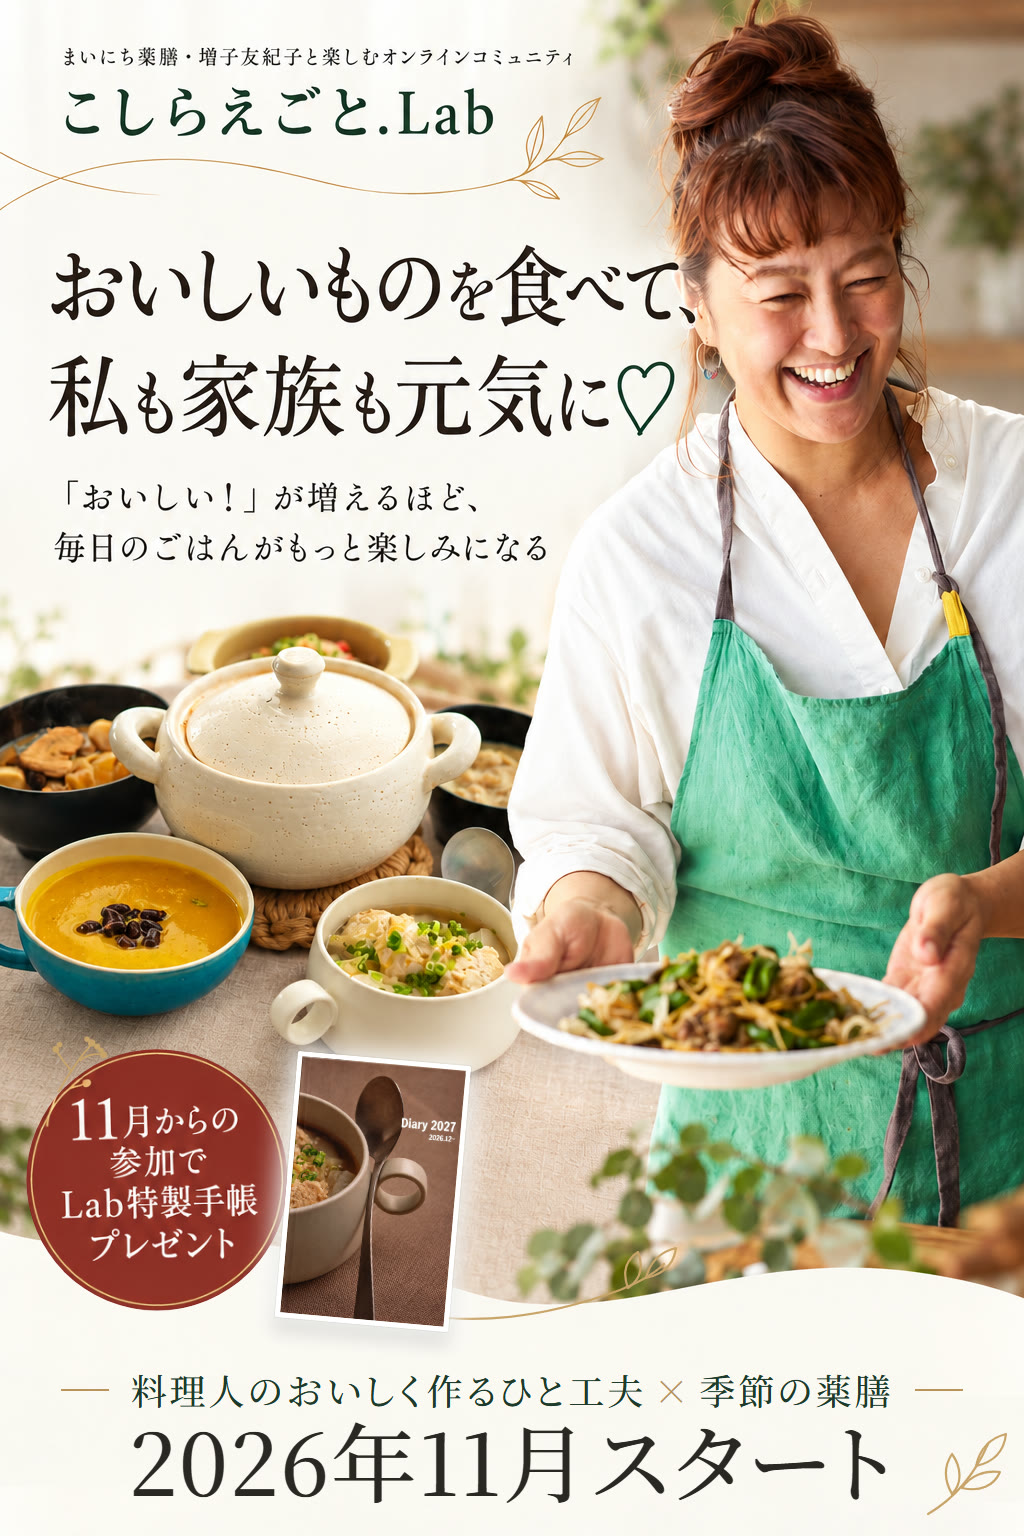
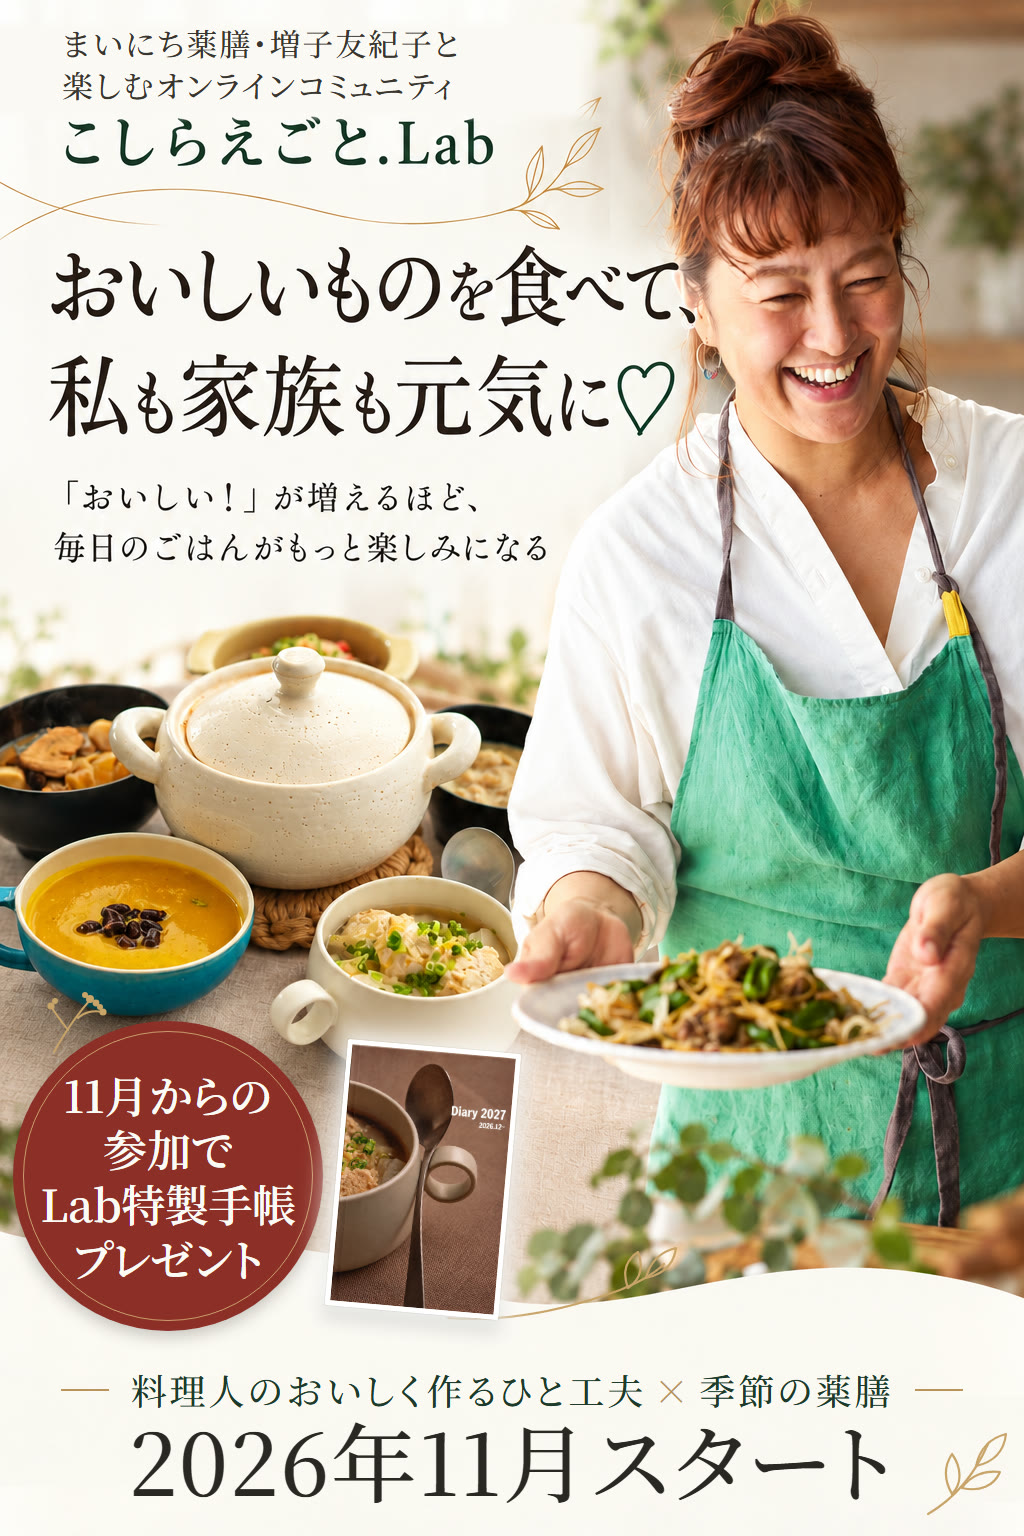
ゆきこさんFB反映：説明文と手帳バッジを大きく、ラボ名を分断しない、写真はイメージです
- FV上部の説明文を2行にして約1.9倍に
- 手帳プレゼントの〇を文字ごと大きく作り直し
- 「こしらえごと.Lab」が改行で分かれないようにした
- 1〜4月の料理写真に「※写真はイメージです」

Changed region(s): [[0.0, 0.6562, 0.5312, 0.875], [0.0625, 0.0, 0.5938, 0.1562], [0.0, 0.125, 0.0312, 0.1562]]

diff --git a/index.html b/index.html
@@ -80,6 +80,7 @@ p{margin:0 0 1.2em}
 /* レッスン */
 .month{background:#fff;border-radius:16px;overflow:hidden;margin:0 0 30px;box-shadow:0 2px 0 var(--line)}
 .month img{width:100%;aspect-ratio:3/2;object-fit:cover}
+.img-note{margin:6px 14px 0;text-align:right;font-size:13.5px;line-height:1.5;color:#6b665e}
 .month .body{padding:22px 20px 24px}
 .month .m{display:inline-flex;align-items:baseline;gap:6px;color:var(--green);font-weight:600;letter-spacing:.06em;margin-bottom:4px}
 .month .m b{font-size:34px;line-height:1;font-weight:600}
@@ -187,7 +188,7 @@ footer{padding:28px 24px 36px;text-align:center;font-size:13px;color:#7b766d;bac
 <!-- ===== FV ===== -->
 <header class="fv">
   <img src="assets/fv.jpg" width="1024" height="1536" alt="">
-  <h1 class="sr-only">おいしい<wbr>ものを<wbr>食べて、<wbr>私も<wbr>家族も<wbr>元気に♡ <wbr>「おいしい！」が<wbr>増える<wbr>ほど、<wbr>毎日の<wbr>ごはんが<wbr>もっと<wbr>楽しみに<wbr>なる！<wbr> 料理人の<wbr>おいしく<wbr>作る<wbr>ひと<wbr>工夫 × 季節の<wbr>薬膳 まいに<wbr>ち薬膳・増子友紀子と<wbr>楽しむオンラインコミュニティ こしらえごと<wbr>.Lab 11月からの<wbr>参加で<wbr>特別プレゼント！<wbr> Lab特製手帳プレゼント♡ 2026年11月スタート！</h1>
+  <h1 class="sr-only">おいしい<wbr>ものを<wbr>食べて、<wbr>私も<wbr>家族も<wbr>元気に♡ <wbr>「おいしい！」が<wbr>増える<wbr>ほど、<wbr>毎日の<wbr>ごはんが<wbr>もっと<wbr>楽しみに<wbr>なる！<wbr> 料理人の<wbr>おいしく<wbr>作る<wbr>ひと<wbr>工夫 × 季節の<wbr>薬膳 まいに<wbr>ち薬膳・増子友紀子と<wbr>楽しむオンラインコミュニティ <span class="nw">こしらえごと.Lab</span> 11月からの<wbr>参加で<wbr>特別プレゼント！<wbr> Lab特製手帳プレゼント♡ 2026年11月スタート！</h1>
 </header>
 <div class="fv-lead">
   <p>体の<wbr>ために、<wbr>我慢したり、<wbr>難しい<wbr>ことを<wbr>頑張ったりしなくても<wbr>大丈夫。<br>
@@ -208,7 +209,7 @@ footer{padding:28px 24px 36px;text-align:center;font-size:13px;color:#7b766d;bac
   <p>スーパーで<wbr>買える<wbr>身近な<wbr>食材でも、<wbr>季節や<wbr>自分の<wbr>体に<wbr>合わせた<wbr>食べ方を<wbr>楽しむことができます。</p>
   <p>さらに、<wbr>料理人の<wbr>おいしく<wbr>仕上げる<wbr>コツを<wbr>知れば、<wbr>いつもの<wbr>食材が<wbr>もっとおいしい<wbr>一皿に。</p>
   <p><span class="strong">おいしい<wbr>ものを<wbr>楽しむことも、<wbr>自分と<wbr>家族を<wbr>大切に<wbr>する<wbr>ことも、<wbr>どちらも<wbr>叶えたい。</span></p>
-  <p class="center">そんな<wbr>方に<wbr>おすすめなのが、<wbr>こしらえごと<wbr>.Labです。</p>
+  <p class="center">そんな<wbr>方に<wbr>おすすめなのが、<wbr><span class="nw">こしらえごと.Lab</span>です。</p>
 </section>
 
 <!-- ===== ラボとは ===== -->
@@ -218,9 +219,9 @@ footer{padding:28px 24px 36px;text-align:center;font-size:13px;color:#7b766d;bac
     <svg viewBox="0 0 40 40" fill="none" stroke="currentColor" stroke-width="1.4" stroke-linecap="round"><path d="M8 26c2-6 8-7 12-6 3-5 9-6 12-3-1 4-5 6-8 6 1 4-1 8-5 9-3-2-3-5-2-8-4 2-8 3-9 2z"/><path d="M20 20c-1 3-1 6 0 9"/></svg>
     <svg viewBox="0 0 40 40" fill="none" stroke="currentColor" stroke-width="1.4" stroke-linecap="round"><ellipse cx="20" cy="22" rx="10" ry="12"/><path d="M20 10c0-3 2-5 5-6"/><path d="M15 16c1 4 1 8 0 12M25 16c-1 4-1 8 0 12"/></svg>
   </div>
-  <span class="eyebrow">こしらえごと<wbr>.Labって、<wbr>どんな<wbr>場所？</span>
+  <span class="eyebrow"><span class="nw">こしらえごと.Lab</span>って、<wbr>どんな<wbr>場所？</span>
   <h2 class="h2">おいしいから、<wbr>作りたくなる。<br>楽しいから、<wbr>続けたくなる♡</h2>
-  <p>こしらえごと<wbr>.Labは、<wbr>まいに<wbr>ち薬膳の<wbr>増子友紀子と<wbr>一緒に、<wbr>おいしい<wbr>料理と<wbr>季節の<wbr>薬膳を<wbr>楽しむオンラインコミュニティです。</p>
+  <p><span class="nw">こしらえごと.Lab</span>は、<wbr>まいに<wbr>ち薬膳の<wbr>増子友紀子と<wbr>一緒に、<wbr>おいしい<wbr>料理と<wbr>季節の<wbr>薬膳を<wbr>楽しむオンラインコミュニティです。</p>
   <p>例えば、</p>
   <span class="voice">「これ、<wbr>作ってみたい！」</span>
   <p>と<wbr>思う<wbr>お料理を、<wbr>料理人の<wbr>コツを<wbr>学びながら<wbr>作ってみたり。<br>季節の<wbr>薬膳を<wbr>知って、<wbr>いつもの<wbr>食卓に<wbr>取り入れてみたり。<br>ときには<wbr>ヨガで<wbr>体を<wbr>動か<wbr>したり、<wbr>お茶会で<wbr>みんな<wbr>とおしゃべりしたり。</p>
@@ -236,7 +237,7 @@ footer{padding:28px 24px 36px;text-align:center;font-size:13px;color:#7b766d;bac
   <h2 class="h2">11月からは、<br>おいしい<wbr>楽しみが<br>こんなに<wbr>いっぱい！</h2>
   <span class="eyebrow">毎月<wbr>「これ<wbr>食べたい！」が<wbr>待っている♡</span>
   <span class="sub">冬から<wbr>春の<wbr>季節の<wbr>お料理レッスン</span>
-  <p>こしらえごと<wbr>.Labでは、<wbr>毎月、<wbr>季節に<wbr>合わせた<wbr>お料理を<wbr>楽しめます。</p>
+  <p><span class="nw">こしらえごと.Lab</span>では、<wbr>毎月、<wbr>季節に<wbr>合わせた<wbr>お料理を<wbr>楽しめます。</p>
   <p>料理人だから<wbr>こそ<wbr>知っている、<wbr>おいしく<wbr>仕上げる<wbr>ひと工夫。<br>そして、<wbr>中医学に<wbr>基づく<wbr>季節の<wbr>薬膳の<wbr>知恵。</p>
   <p>その<wbr>両方を<wbr>学ぶことで、<wbr>いつもの<wbr>ごはん<wbr>作りが<wbr>もっと<wbr>楽しくなります。</p>
 
@@ -271,7 +272,7 @@ footer{padding:28px 24px 36px;text-align:center;font-size:13px;color:#7b766d;bac
   </article>
 
   <article class="month">
-    <img src="assets/m01.jpg" alt="1月 麻辣湯鍋のイメージ" loading="lazy">
+    <img src="assets/m01.jpg" alt="1月 麻辣湯鍋のイメージ" loading="lazy"><p class="img-note">※写真は<wbr>イメージです</p>
     <div class="body">
       <div class="m"><b>1</b><span>月</span></div>
       <h3>寒い冬に<wbr>食べたい、<br>私好みの<wbr>麻辣湯鍋</h3>
@@ -287,7 +288,7 @@ footer{padding:28px 24px 36px;text-align:center;font-size:13px;color:#7b766d;bac
   <p>季節が<wbr>変われば、<wbr>おいしい<wbr>食材も<wbr>変わる。<br>冬の<wbr>お料理を<wbr>楽しんだ<wbr>あとは、<wbr>春ならではの<wbr>食卓を<wbr>楽しみましょう！</p>
 
   <article class="month small">
-    <img src="assets/m02.jpg" alt="2月 おうちカフェ朝食のイメージ" loading="lazy">
+    <img src="assets/m02.jpg" alt="2月 おうちカフェ朝食のイメージ" loading="lazy"><p class="img-note">※写真は<wbr>イメージです</p>
     <div class="body">
       <div class="m"><b>2</b><span>月</span></div>
       <h3>明日の<wbr>朝が<wbr>楽しみに<wbr>なる、<wbr>おうちカフェ朝食</h3>
@@ -296,7 +297,7 @@ footer{padding:28px 24px 36px;text-align:center;font-size:13px;color:#7b766d;bac
     </div>
   </article>
   <article class="month small">
-    <img src="assets/m03.jpg" alt="3月 春色デリのイメージ" loading="lazy">
+    <img src="assets/m03.jpg" alt="3月 春色デリのイメージ" loading="lazy"><p class="img-note">※写真は<wbr>イメージです</p>
     <div class="body">
       <div class="m"><b>3</b><span>月</span></div>
       <h3>春野菜が<wbr>もっと<wbr>好きに<wbr>なる、<wbr>春色デリ</h3>
@@ -305,7 +306,7 @@ footer{padding:28px 24px 36px;text-align:center;font-size:13px;color:#7b766d;bac
     </div>
   </article>
   <article class="month small">
-    <img src="assets/m04.jpg" alt="4月 だしと味噌の和ごはんのイメージ" loading="lazy">
+    <img src="assets/m04.jpg" alt="4月 だしと味噌の和ごはんのイメージ" loading="lazy"><p class="img-note">※写真は<wbr>イメージです</p>
     <div class="body">
       <div class="m"><b>4</b><span>月</span></div>
       <h3>いつもの<wbr>和食が<wbr>もっと<wbr>好きに<wbr>なる、<wbr>だしと<wbr>味噌の<wbr>和ごはん</h3>
@@ -324,7 +325,7 @@ footer{padding:28px 24px 36px;text-align:center;font-size:13px;color:#7b766d;bac
   <span class="voice">「今日は、<wbr>こんな<wbr>食材を<wbr>使ってみようかな」<br>「この<wbr>時期は、<wbr>こんな<wbr>食べ方も<wbr>いいんだ！」</span>
   <p>そんな<wbr>小さな<wbr>発見が<wbr>増えていくんです。</p>
   <div class="box">
-    <p>しかも、<wbr>こしらえごと<wbr>.Labでは、<wbr>知識を<wbr>学ぶだけでは<wbr>ありません。<br>実際に<wbr>お料理を<wbr>作りながら、<wbr>食べながら、<wbr>楽しく<wbr>薬膳に<wbr>親しめるのが<wbr>魅力です。</p>
+    <p>しかも、<wbr><span class="nw">こしらえごと.Lab</span>では、<wbr>知識を<wbr>学ぶだけでは<wbr>ありません。<br>実際に<wbr>お料理を<wbr>作りながら、<wbr>食べながら、<wbr>楽しく<wbr>薬膳に<wbr>親しめるのが<wbr>魅力です。</p>
     <p style="margin:0"><span class="strong">難しい<wbr>勉強を<wbr>頑張るより、<wbr>おいしい<wbr>お料理を<wbr>楽しみながら、<wbr>自然と<wbr>薬膳の<wbr>知恵が<wbr>増えていく。</span></p>
   </div>
   <p class="center" style="margin-top:1.4em">そんな<wbr>半年を<wbr>過ごしてみませんか？</p>
@@ -335,7 +336,7 @@ footer{padding:28px 24px 36px;text-align:center;font-size:13px;color:#7b766d;bac
   <h2 class="h2">お料理だけじゃない！<br>心も<wbr>体も<wbr>いたわる<br>楽しい<wbr>時間♡</h2>
   <p>健康の<wbr>ために<wbr>大切なのは、<wbr>食べる<wbr>ことだけでは<wbr>ありませんよね。</p>
   <p>たまには<wbr>体を<wbr>動か<wbr>したり、<wbr>ゆっくり<wbr>休んだり、<wbr>誰かと<wbr>楽しく<wbr>おしゃべりしたり。<br>そんな<wbr>時間も<wbr>大切に<wbr>したい。</p>
-  <p>こしらえごと<wbr>.Labでは、<wbr>お料理と<wbr>薬膳の<wbr>ほかにも、<wbr>季節の<wbr>暮らしを<wbr>楽しむ活動を<wbr>ご用意しています。</p>
+  <p><span class="nw">こしらえごと.Lab</span>では、<wbr>お料理と<wbr>薬膳の<wbr>ほかにも、<wbr>季節の<wbr>暮らしを<wbr>楽しむ活動を<wbr>ご用意しています。</p>
   <div class="acts">
     <div class="act"><img src="assets/act_koyomi.jpg" alt="こよみごとのイメージ" loading="lazy"><div><h3>こよみごと</h3><p>季節の<wbr>移り<wbr>変わりや暦に<wbr>触れながら、<wbr>日々の<wbr>暮らしを<wbr>楽しむ時間。</p></div></div>
     <div class="act"><img src="assets/act_tea.jpg" alt="お茶会のイメージ" loading="lazy"><div><h3>お茶会</h3><p>お茶を<wbr>楽しみながら、<wbr>みんなと<wbr>交流する<wbr>時間。</p></div></div>
@@ -344,7 +345,7 @@ footer{padding:28px 24px 36px;text-align:center;font-size:13px;color:#7b766d;bac
   <p>もちろん、<wbr>全部に<wbr>参加する<wbr>必要は<wbr>ありません。<br>その<wbr>ときの<wbr>自分が<wbr>「これ楽しそう！」と<wbr>思う<wbr>ものから<wbr>参加してくださいね。</p>
   <p><span class="strong">おいしく<wbr>食べる<wbr>ことも、<wbr>自分を<wbr>いたわる<wbr>ことも、<wbr>楽しく<wbr>暮らすことも。</span></p>
   <p>全部、<wbr>毎日の<wbr>中で<wbr>大切に<wbr>していけたら<wbr>嬉しいですよね♡</p>
-  <p class="note">※参加期間中は、<wbr>こしらえごと<wbr>.Labの<wbr>活動すべてに<wbr>参加できます。</p>
+  <p class="note">※参加期間中は、<wbr><span class="nw">こしらえごと.Lab</span>の<wbr>活動すべてに<wbr>参加できます。</p>
 </section>
 
 <!-- ===== 手帳 ===== -->
@@ -353,12 +354,12 @@ footer{padding:28px 24px 36px;text-align:center;font-size:13px;color:#7b766d;bac
   <h2 class="h2">Lab特製手帳を<br>プレゼント♡</h2>
   <img class="photo" src="assets/techo.jpg" alt="こしらえごと.Lab特製手帳" loading="lazy">
   <p>今回、<wbr>11月から<wbr>ラボに<wbr>参加してくださる<wbr>皆さんに、<wbr>嬉しい<wbr>プレゼント企画を<wbr>ご用意しています！</p>
-  <p>それが、<span class="strong">こしらえごと<wbr>.Lab特製手帳♡</span></p>
+  <p>それが、<span class="strong"><span class="nw">こしらえごと.Lab</span>特製手帳♡</span></p>
   <p>これから<wbr>作ってみたい<wbr>お料理。<br>食べたい<wbr>もの。<br>家族と<wbr>楽しみたい<wbr>こと。<br>自分の<wbr>ために<wbr>やってみたい<wbr>こと。</p>
   <p>そんな<wbr>毎日の<wbr>楽しみを、<wbr>手帳にも<wbr>いっぱい<wbr>書き込んで<wbr>ほしいなと<wbr>思っています。</p>
   <p>これからの<wbr>半年、<wbr>どんな<wbr>おいしい<wbr>時間を<wbr>過ごそうかな？<br>そんな<wbr>ふうに、<wbr>未来を<wbr>楽しみに<wbr>できる<wbr>手帳に<wbr>なったら<wbr>嬉しいです。</p>
   <span class="ask">11月在籍の<wbr>方が<wbr>対象と<wbr>なる<wbr>特別プレゼント企画です！</span>
-  <p class="note">※冬3か月・冬春6か<wbr>月の<wbr>どちらも<wbr>対象です。<br>※専用の<wbr>お申し込みリンクから<wbr>別途手<wbr>続きが<wbr>必要です。<br>※11月中の<wbr>お届けを<wbr>予定しています。<br>※プレゼントの<wbr>お申込み条件・期間は<wbr>こしらえごと<wbr>.Labご入会後に<wbr>ご案内します。</p>
+  <p class="note">※冬3か月・冬春6か<wbr>月の<wbr>どちらも<wbr>対象です。<br>※専用の<wbr>お申し込みリンクから<wbr>別途手<wbr>続きが<wbr>必要です。<br>※11月中の<wbr>お届けを<wbr>予定しています。<br>※プレゼントの<wbr>お申込み条件・期間は<wbr><span class="nw">こしらえごと.Lab</span>ご入会後に<wbr>ご案内します。</p>
 </section>
 
 <!-- ===== 半年後 ===== -->
@@ -379,7 +380,7 @@ footer{padding:28px 24px 36px;text-align:center;font-size:13px;color:#7b766d;bac
 <section class="alt plans" id="plans">
   <span class="eyebrow">2026年11月スタート！</span>
   <h2 class="h2">おいしく<wbr>食べて、<br><em>私も<wbr>家族も</em>元気に♡<br>冬から<wbr>春まで<wbr>楽しもう！</h2>
-  <p>こしらえごと<wbr>.Labでは、<wbr>この<wbr>冬から<wbr>春に<wbr>かけて、<wbr>季節の<wbr>おいしい<wbr>料理と<wbr>薬膳の<wbr>学びを<wbr>ご用意しています。</p>
+  <p><span class="nw">こしらえごと.Lab</span>では、<wbr>この<wbr>冬から<wbr>春に<wbr>かけて、<wbr>季節の<wbr>おいしい<wbr>料理と<wbr>薬膳の<wbr>学びを<wbr>ご用意しています。</p>
   <p>毎月<wbr>「これ作りたい！」と<wbr>思える<wbr>お料理に<wbr>出会いながら、<wbr>食べる<wbr>楽しみも、<wbr>暮らしの<wbr>楽しみも<wbr>増やしていきましょう。</p>
 
   <div class="plan best" style="margin-top:40px">
@@ -393,7 +394,7 @@ footer{padding:28px 24px 36px;text-align:center;font-size:13px;color:#7b766d;bac
     <ul>
       <li>11月〜4月の<wbr>季節の<wbr>お料理レッスン</li>
       <li>期間中の<wbr>薬膳勉強会</li>
-      <li>期間中の<wbr>こしらえごと<wbr>.Labの<wbr>活動すべて</li>
+      <li>期間中の<wbr><span class="nw">こしらえごと.Lab</span>の<wbr>活動すべて</li>
       <li>11月在籍者向け<wbr><span class="nw">Lab特製手帳</span><wbr><span class="nw">プレゼント企画</span></li>
     </ul>
     <p style="font-size:15.5px">冬の<wbr>おいしい<wbr>発酵スープから、<wbr>春野菜の<wbr>彩り豊かな<wbr>デリまで。<br>毎月の<wbr>お料理が<wbr>楽しみに<wbr>なる<wbr>半年を、<wbr>一緒に<wbr>過ごしましょう♡</p>
@@ -433,9 +434,9 @@ footer{padding:28px 24px 36px;text-align:center;font-size:13px;color:#7b766d;bac
   <p>でも、<wbr>難しく<wbr>考えたり、<wbr>頑張りすぎたりしなくていいんです。</p>
   <span class="voice">「これ、<wbr>おいしそう！」<br>「今度<wbr>作ってみたい！」</span>
   <p>そんな<wbr>気持ちから、<wbr>気軽に<wbr>始めてみて<wbr>ほしいなと<wbr>思います。</p>
-  <p>こしらえごと<wbr>.Labでは、<wbr>おいしい<wbr>料理を<wbr>楽しみながら、<wbr>季節の<wbr>薬膳を<wbr>学び、<wbr>毎日の<wbr>暮らしを<wbr>楽しむ<wbr>時間を<wbr>ご用意しています。</p>
+  <p><span class="nw">こしらえごと.Lab</span>では、<wbr>おいしい<wbr>料理を<wbr>楽しみながら、<wbr>季節の<wbr>薬膳を<wbr>学び、<wbr>毎日の<wbr>暮らしを<wbr>楽しむ<wbr>時間を<wbr>ご用意しています。</p>
   <p>これからの<wbr>半年も、<wbr>おいしい<wbr>こと、<wbr>楽しい<wbr>ことを<wbr>いっぱいしていきましょうね♡<br>皆さんと<wbr>一緒に<wbr>過ごせるのを<wbr>楽しみに<wbr>しています！</p>
-  <p class="sign"><b>増子友紀子</b>まいに<wbr>ち薬膳／こしらえごと<wbr>.Lab</p>
+  <p class="sign"><b>増子友紀子</b>まいに<wbr>ち薬膳／<span class="nw">こしらえごと.Lab</span></p>
 
   <div class="profile">
     <h3>増子 友紀子プロフィール</h3>
@@ -443,7 +444,7 @@ footer{padding:28px 24px 36px;text-align:center;font-size:13px;color:#7b766d;bac
     <p>料理人歴20年。<wbr>フランス料理店で<wbr>10年修行後、<wbr>東京・<wbr>自由が<wbr>丘にて<wbr>「リストランテ ヴィコレット」の<wbr>オーナーシェフに。</p>
     <p>結婚・出産を<wbr>機に、<wbr>「毎日の<wbr>ごはんで<wbr>体を<wbr>ケアする」<wbr>大切さを<wbr>実感し、<wbr>2016年より<wbr>国際薬膳師と<wbr>して<wbr>活動を<wbr>開始。</p>
     <p>介護と<wbr>育児を<wbr>通して、<wbr>"毎日の<wbr>食と<wbr>暮らしから、<wbr>今の<wbr>自分を<wbr>大切に<wbr>生きていく<wbr>"を<wbr>モットーに、<wbr>日々の<wbr>食卓から<wbr>元気に<wbr>なる<wbr>薬膳の<wbr>ヒントを<wbr>届けている。</p>
-    <p>毎月の<wbr>オンライン料理教室<wbr>「おまもりレシピ」や、<wbr>薬膳と<wbr>共に<wbr>"自分を<wbr>大切に<wbr>する<wbr>暮らし"を<wbr>楽しむオンラインコミュニティ<wbr>「こしらえごと<wbr>.Lab」を<wbr>主宰。</p>
+    <p>毎月の<wbr>オンライン料理教室<wbr>「おまもりレシピ」や、<wbr>薬膳と<wbr>共に<wbr>"自分を<wbr>大切に<wbr>する<wbr>暮らし"を<wbr>楽しむオンラインコミュニティ<wbr>「<span class="nw">こしらえごと.Lab</span>」を<wbr>主宰。</p>
     <p>実践しながら<wbr>薬膳を<wbr>学べる<wbr>「まいに<wbr>ち薬膳®」<wbr>講座は、<wbr>自宅講座を<wbr>含め受講者数のべ6,500人を<wbr>超える。</p>
     <p>料理の<wbr>作り方だけでなく、<wbr>日常の<wbr>出来事を<wbr>紐解きながら<wbr>薬膳を<wbr>伝える<wbr>スタイルが<wbr>好評で、<wbr>暮らしを<wbr>豊かに<wbr>する<wbr>ヒントを<wbr>広く<wbr>発信。<wbr>Instagramの<wbr>フォロワーは<wbr>現在16万人以上。</p>
     <p>忙しい<wbr>毎日の<wbr>中でも、<wbr>薬膳を<wbr>"続けられる<wbr>形"にし、<wbr>さらに<wbr>"届けられる<wbr>形"に<wbr>する。<wbr>その<wbr>実践の<wbr>積み重ねから<wbr>生まれたのが、<wbr>「まいに<wbr>ち薬膳®」です。<wbr>学んで<wbr>終わりではなく、<wbr>暮らしに<wbr>活かし、<wbr>誰かに<wbr>届け、<wbr>仕事へつな<wbr>げていく。<wbr>そんな<wbr>薬膳の<wbr>新しい<wbr>形を、<wbr>今、<wbr>多くの<wbr>方に<wbr>伝えています。</p>
@@ -460,7 +461,7 @@ footer{padding:28px 24px 36px;text-align:center;font-size:13px;color:#7b766d;bac
       <li>小学館<wbr>『女性セブン』<br><span class="nw">2023年8月31日号／</span><wbr><span class="nw">2023年4月28日号／</span><wbr><span class="nw">2025年7月3・10日号</span></li>
       <li>マガジンハウス『Hanakoママ』</li>
       <li>カナエル『くらしの<wbr>窓口』</li>
-      <li>関西電力<span class="nw">『withは<wbr>ぴe』</span><wbr>…<wbr>他レシピ掲載・監修多数</li>
+      <li>関西電力<span class="nw">『withはぴe』</span><wbr>…<wbr>他レシピ掲載・監修多数</li>
       <li>ラジオNIKKEI<wbr>「前田公輝の<wbr>ヒラケテヒラク」<wbr>ゲスト出演</li>
       <li>「SALON AWARD」<wbr>ゲストスピーカー</li>
     </ul>
@@ -476,7 +477,7 @@ footer{padding:28px 24px 36px;text-align:center;font-size:13px;color:#7b766d;bac
   <p>そんな<wbr>冬と<wbr>春を、<wbr>一緒に<wbr>過ごしませんか？</p>
   <p><span class="strong">11月からの<wbr>参加で、<wbr>Lab特製手帳プレゼント企画も<wbr>ご用意しています♡</span></p>
   <p>料理人の<wbr>おいしく<wbr>作る<wbr>コツと<wbr>季節の<wbr>薬膳を<wbr>楽しみながら、<wbr>これからの<wbr>半年を<wbr>もっとおいしく、<wbr>もっと<wbr>楽しく！</p>
-  <p>こしらえごと<wbr>.Labで<wbr>お待ちしています。</p>
+  <p><span class="nw">こしらえごと.Lab</span>で<wbr>お待ちしています。</p>
   <span class="eyebrow" style="margin-top:28px">冬から<wbr>春まで<wbr>楽しむなら<wbr>こちら！</span>
   <div class="pl">
     <p class="n">冬・春6か<wbr>月パック｜30,000円<wbr>（税込）</p>
@@ -499,7 +500,7 @@ footer{padding:28px 24px 36px;text-align:center;font-size:13px;color:#7b766d;bac
   <p class="note" style="margin-top:16px">※お申し込みの<wbr>際は<wbr>プランの<wbr>利用規約・支払いの<wbr>時期、<wbr>方法・サービス提供の<wbr>時期・返品の<wbr>取り扱い方<wbr>法等、<wbr>すべて<wbr>ご確認・<wbr>ご了承の<wbr>上お手続きください。</p>
 </section>
 
-<footer>© こしらえごと<wbr>.Lab</footer>
+<footer>© <span class="nw">こしらえごと.Lab</span></footer>
 </div>
 
 <div class="fixed" id="fixed"><a class="btn btn-main" href="#plans">お申し込みは<wbr>こちら</a></div>
